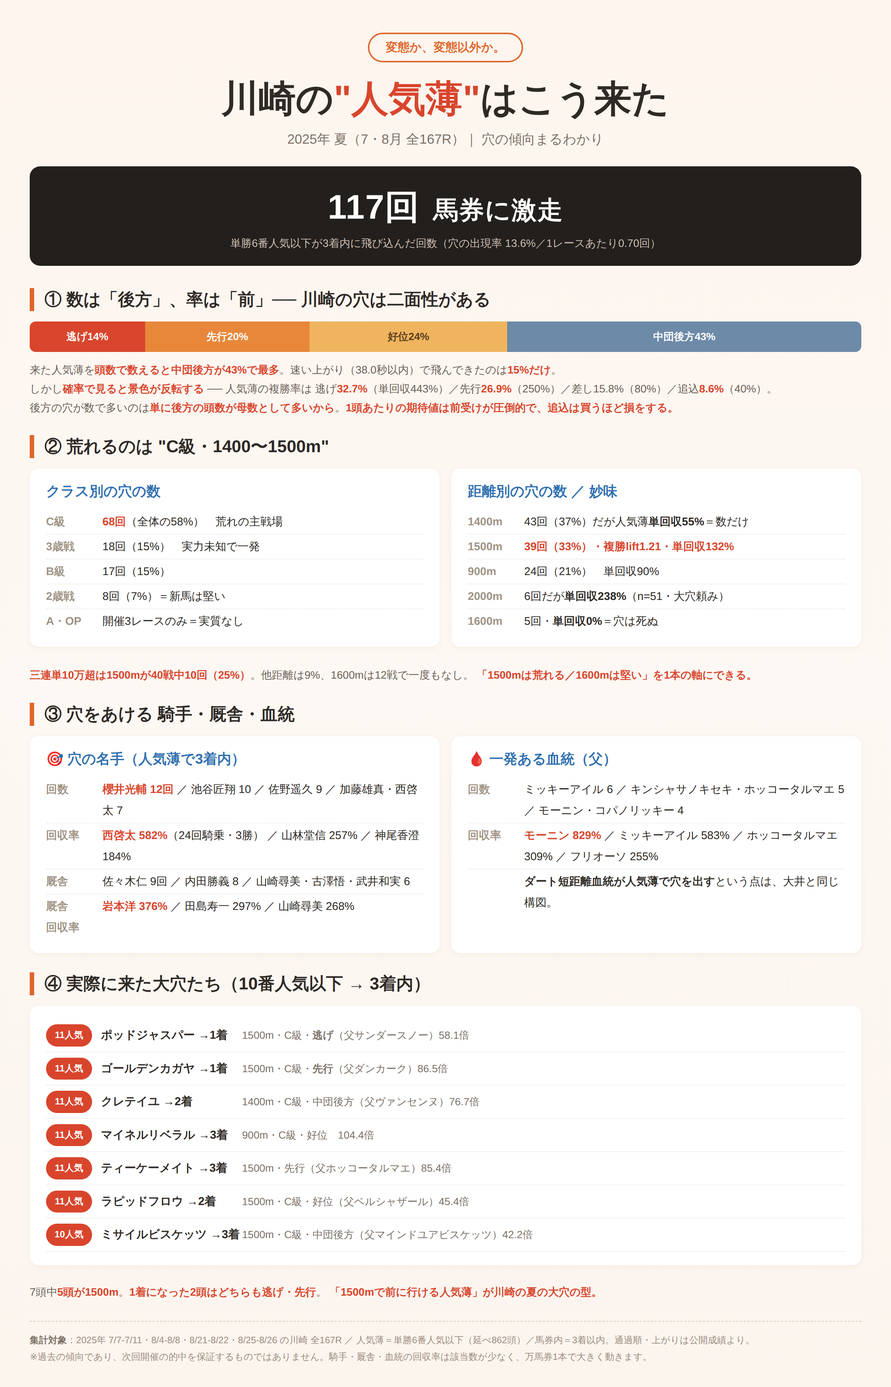
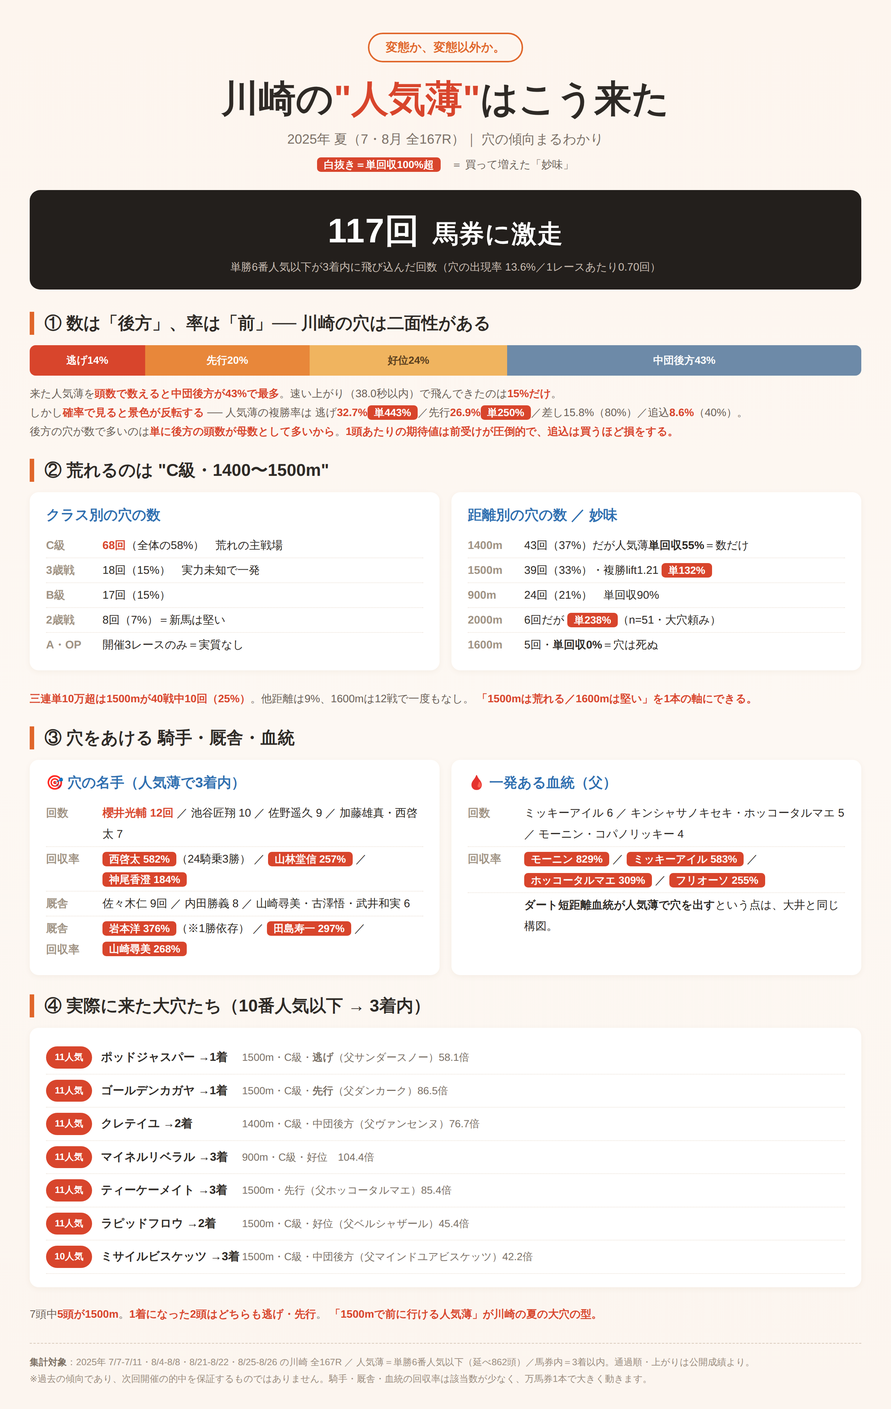
カード改訂：妙味ベスト3（西啓太・田島寿一・岩本洋）を最上段に、白抜き＝単回収100%超で統一

diff --git a/notes/live/kawasaki_2025_summer_data.html b/notes/live/kawasaki_2025_summer_data.html
@@ -4,60 +4,107 @@ body{width:1200px;background:linear-gradient(180deg,#fdf5ee 0%,#fdf8f3 40%,#fbf3
  font-family:"Noto Sans CJK JP","Hiragino Sans","Yu Gothic",sans-serif;color:#2e2a26;padding:44px 40px 26px}
 .pill{display:inline-block;border:2px solid #e0662a;color:#e0662a;border-radius:999px;
  padding:7px 22px;font-size:16px;font-weight:700}
-.head{text-align:center;margin-bottom:26px}
-h1{font-size:52px;font-weight:900;letter-spacing:.01em;margin:16px 0 8px}
+.head{text-align:center;margin-bottom:24px}
+h1{font-size:52px;font-weight:900;margin:16px 0 8px}
 h1 em{font-style:normal;color:#111}
 .sub{font-size:19px;color:#7c7168;margin-bottom:12px}
 .note{display:inline-block;background:#231f1c;color:#fff;border-radius:6px;padding:5px 16px;font-size:14px}
-.top{display:flex;gap:16px;margin-bottom:30px}
-.tcard{flex:1;background:#fff;border-radius:12px;padding:20px 22px 18px;border-top:4px solid #e0662a;
- box-shadow:0 2px 10px rgba(120,80,40,.07)}
-.tlab{font-size:13px;color:#a08e7e;font-weight:700;margin-bottom:6px}
-.tname{font-size:30px;font-weight:900;margin-bottom:8px}
-.tsmall{font-size:14px;color:#8a7d70;margin-bottom:6px}
-.trate{font-size:19px;font-weight:800;color:#1f8a5f;margin-bottom:8px}
-.tdesc{font-size:13.5px;color:#776c60;line-height:1.55}
+.legend{margin-top:12px;font-size:14.5px;color:#6b6158}
+.val{background:#d8452c;color:#fff;border-radius:5px;padding:2px 9px;font-weight:800;
+ font-size:14px;white-space:nowrap}
 h2{font-size:24px;font-weight:900;margin:0 0 16px;padding-left:14px;border-left:6px solid #e0662a}
+h2 small{font-size:15px;color:#8c8177;font-weight:700;margin-left:10px}
+.top{display:flex;gap:16px;margin-bottom:26px}
+.dk{flex:1;background:#231f1c;color:#fff;border-radius:12px;padding:22px 24px 20px;
+ box-shadow:0 4px 14px rgba(60,35,15,.18)}
+.dk .lab{font-size:13px;color:#e0a07a;font-weight:800;margin-bottom:7px;letter-spacing:.04em}
+.dk .nm{font-size:34px;font-weight:900;margin-bottom:10px;letter-spacing:.01em}
+.dk .big{font-size:30px;font-weight:900;color:#ff9264;margin-bottom:4px}
+.dk .sub2{font-size:14px;color:#b8aa9e;margin-bottom:10px}
+.dk .d{font-size:13.5px;color:#e6ded6;line-height:1.7}
+.dk .d b{color:#ffb28c}
+.dk .warn{margin-top:9px;font-size:12.5px;color:#f0c9a6;background:#3a322c;border-radius:6px;padding:7px 10px;line-height:1.6}
+.tetsu{display:flex;gap:16px;margin-bottom:30px}
+.tc{flex:1;background:#fff;border-radius:12px;padding:16px 20px;border-top:4px solid #9aa8b5;
+ box-shadow:0 2px 8px rgba(120,80,40,.06)}
+.tc .lab{font-size:12.5px;color:#a08e7e;font-weight:700;margin-bottom:5px}
+.tc .nm{font-size:23px;font-weight:900;margin-bottom:5px}
+.tc .r{font-size:15px;font-weight:800;color:#1f8a5f;margin-bottom:6px}
+.tc .d{font-size:13px;color:#776c60;line-height:1.6}
 .grid{display:flex;flex-wrap:wrap;gap:16px;margin-bottom:28px}
 .g{width:calc(50% - 8px);background:#fff;border-radius:12px;padding:18px 22px;
  box-shadow:0 2px 8px rgba(120,80,40,.06)}
 .g3{width:calc(33.33% - 11px)}
 .gt{font-size:20px;font-weight:900;color:#2f6fb0;margin-bottom:12px}
 .gt span{font-size:13px;color:#a29387;font-weight:600;margin-left:8px}
-.row{display:flex;font-size:15px;line-height:1.85;border-bottom:1px dotted #ece2d8;padding:2px 0}
+.row{display:flex;font-size:15px;line-height:2.05;border-bottom:1px dotted #ece2d8;padding:3px 0}
 .row:last-child{border:none}
 .rk{width:42px;color:#a09384;font-weight:700;flex:none}
 .rv{flex:1}
-.hot{color:#d8452c;font-weight:800}
+.dim{color:#a2988e}
 .foot{border-top:1px dashed #d9cabb;padding-top:14px;font-size:12.5px;color:#9b8d7f;line-height:1.8}
 .foot b{color:#7b6f63}
 </style>
 <div class="head">
   <div class="pill">変態か、変態以外か。</div>
   <h1>川崎競馬 <em>好走データ 2025年 夏</em></h1>
-  <div class="sub">7・8月 全167レース ｜ 距離 × クラス別 完全版</div>
+  <div class="sub">7・8月 全167レース ｜ 妙味 × 距離 × クラス別</div>
   <div class="note">複勝率＝3着内率／（好走数・出走数）で表記</div>
+  <div class="legend"><span class="val">白抜き＝単回収100%超</span>　＝ 実際に買って増えた「妙味」。黒文字は<b>よく来るが儲からない</b>。</div>
 </div>
 
+<h2>妙味ベスト3 <small>買って一番増えたのは誰か</small></h2>
 <div class="top">
-  <div class="tcard">
-    <div class="tlab">◎ 絶対軸ジョッキー</div>
-    <div class="tname">矢野 貴之</div>
-    <div class="trate">複勝率 59％（40/68）</div>
-    <div class="tdesc">1400mで67%（18/27）。<b>2歳戦は13戦13複＝100%</b>。ただし単回収60%＝買われ過ぎ。</div>
+  <div class="dk">
+    <div class="lab">◎ 妙味の騎手</div>
+    <div class="nm">西 啓太</div>
+    <div class="big">単回収 374%</div>
+    <div class="sub2">40騎乗 5勝／複勝率 30.0%</div>
+    <div class="d">人気薄（6番人気↓）だけで<b>単回収582%</b>（24騎乗3勝）。<br>
+      <b>1500mが本領＝13騎乗2勝・単932%</b>。C級で単511%。<br>
+      11人気58.1倍・8人気63.1倍を勝たせている。</div>
+    <div class="warn">✔ 5勝が複数の馬に分散＝1本頼みではない。勝率12.5%も平均超え。</div>
   </div>
-  <div class="tcard">
-    <div class="tlab">◎ 鉄板トレーナー</div>
-    <div class="tname">加藤 誠一</div>
-    <div class="trate">複勝率 53％（18/34）</div>
-    <div class="tdesc">勝率20.6%も最上位。1400mで70%（7/10）、C級で62%（8/13）。下級条件の主役。</div>
+  <div class="dk">
+    <div class="lab">◎ 妙味の厩舎</div>
+    <div class="nm">田島 寿一</div>
+    <div class="big">単回収 216%</div>
+    <div class="sub2">48出走 4勝／複勝率 25.0%</div>
+    <div class="d">人気薄だけで<b>単回収297%</b>（31出走）。<br>
+      <b>1400mが軸＝23出走・単279%</b>。C級33出走で単197%。<br>
+      8人気33.2倍・6人気58.8倍を勝たせている。</div>
+    <div class="warn">✔ 4勝が別々の馬。1500m（16出走・単39%）は狙わない。</div>
   </div>
-  <div class="tcard">
-    <div class="tlab">◎ 妙味の種牡馬</div>
-    <div class="tname">モズアスコット</div>
-    <div class="tsmall">＝ 芝ダート兼用のフランケル系</div>
-    <div class="trate">複勝率 73％（11/15）</div>
-    <div class="tdesc"><b>2歳戦8戦7複（88%）</b>・1400m 80%（8/10）。逃先率53%＝前に行ける。</div>
+  <div class="dk">
+    <div class="lab">△ 一発の厩舎</div>
+    <div class="nm">岩本 洋</div>
+    <div class="big">単回収 279%</div>
+    <div class="sub2">31出走 <b>1勝</b>／複勝率 19.4%</div>
+    <div class="d">人気薄で単376%。<b>1500m専用＝12出走で単721%</b>、<br>
+      900m・1400m・1600mは<b>すべて単0%</b>。</div>
+    <div class="warn">⚠ 279%の中身は<b>11人気ゴールデンカガヤ86.5倍の1本のみ</b>。<br>この1勝を除くと回収率0%。他2つとは信頼度が違う。</div>
+  </div>
+</div>
+
+<h2>鉄板ベスト3 <small>よく来る。ただし単勝では増えない</small></h2>
+<div class="tetsu">
+  <div class="tc">
+    <div class="lab">◎ 絶対軸ジョッキー</div>
+    <div class="nm">矢野 貴之</div>
+    <div class="r">複勝率 59%（40/68）／単回収 60%</div>
+    <div class="d"><b>2歳戦は13戦13複＝100%</b>（単152%）。複勝・馬連の軸に限定。</div>
+  </div>
+  <div class="tc">
+    <div class="lab">◎ 鉄板トレーナー</div>
+    <div class="nm">加藤 誠一</div>
+    <div class="r">複勝率 53%（18/34）／単回収 93%</div>
+    <div class="d">勝率20.6%も最上位。<b>1400mだけは単216%</b>で妙味も出る。</div>
+  </div>
+  <div class="tc">
+    <div class="lab">◎ 鉄板種牡馬</div>
+    <div class="nm">モズアスコット</div>
+    <div class="r">複勝率 73%（11/15）／単回収 87%</div>
+    <div class="d">2歳戦8戦7複（88%・単144%）。逃先率53%＝前に行ける。</div>
   </div>
 </div>
 
@@ -65,27 +112,27 @@ h2{font-size:24px;font-weight:900;margin:0 0 16px;padding-left:14px;border-left:
 <div class="grid">
   <div class="g">
     <div class="gt">900m <span>スプリント／34R</span></div>
-    <div class="row"><div class="rk">騎手</div><div class="rv"><span class="hot">佐野遥久 63%（17/27）</span> ／ 町田直希 59% ／ 笹川翼 57%</div></div>
-    <div class="row"><div class="rk">厩舎</div><div class="rv"><span class="hot">林隆之 67%（10/15）</span> ／ 久保秀男 55% ／ 高橋宏征 50%</div></div>
-    <div class="row"><div class="rk">父</div><div class="rv">キンシャサノキセキ 60% ／ スマートファルコン 60% ／ リオンディーズ 57%</div></div>
+    <div class="row"><div class="rk">騎手</div><div class="rv">佐野遥久 63%（17/27）<span class="val">単201%</span> ／ 町田直希 59% <span class="dim">単89%</span></div></div>
+    <div class="row"><div class="rk">厩舎</div><div class="rv">林隆之 67%（10/15）<span class="val">単121%</span> ／ 久保秀男 55%<span class="val">単174%</span></div></div>
+    <div class="row"><div class="rk">父</div><div class="rv">スマートファルコン 60%<span class="val">単222%</span> ／ キンシャサノキセキ 60% <span class="dim">単76%</span></div></div>
   </div>
   <div class="g">
     <div class="gt">1400m <span>主戦場／72R</span></div>
-    <div class="row"><div class="rk">騎手</div><div class="rv"><span class="hot">矢野貴之 67%（18/27）</span> ／ 今野忠成 57% ／ 本田正重 54%</div></div>
-    <div class="row"><div class="rk">厩舎</div><div class="rv"><span class="hot">加藤誠一 70%（7/10）</span> ／ 佐々木仁 57%（17/30） ／ 内田勝義 45%</div></div>
-    <div class="row"><div class="rk">父</div><div class="rv"><span class="hot">モズアスコット 80%（8/10）</span> ／ ホッコータルマエ 62%（8/13）</div></div>
+    <div class="row"><div class="rk">騎手</div><div class="rv">矢野貴之 67%（18/27） <span class="dim">単78%</span> ／ 今野忠成 57% <span class="dim">単0%</span></div></div>
+    <div class="row"><div class="rk">厩舎</div><div class="rv">加藤誠一 70%（7/10）<span class="val">単216%</span> ／ 田島寿一 <span class="val">単279%</span>（23出走）</div></div>
+    <div class="row"><div class="rk">父</div><div class="rv">ホッコータルマエ 62%<span class="val">単518%</span> ／ モズアスコット 80%<span class="val">単116%</span></div></div>
   </div>
   <div class="g">
     <div class="gt">1500m <span>荒れ場／40R</span></div>
-    <div class="row"><div class="rk">騎手</div><div class="rv">笹川翼 48%（12/25） ／ 矢野貴之 42% ／ 山崎誠士 38%</div></div>
-    <div class="row"><div class="rk">厩舎</div><div class="rv">秋山直之 50%（6/12） ／ 山崎裕也 43%（12/28） ／ 林隆之 42%</div></div>
-    <div class="row"><div class="rk">父</div><div class="rv">ファインニードル 67%（4/6） ／ <span class="hot">ホッコータルマエ 50%（8/16）</span> ／ パイロ 43%</div></div>
+    <div class="row"><div class="rk">騎手</div><div class="rv">西啓太 <span class="val">単932%</span>（13騎乗2勝） ／ 山崎誠士 38%<span class="val">単342%</span> ／ 矢野貴之 <span class="dim">単7%</span></div></div>
+    <div class="row"><div class="rk">厩舎</div><div class="rv">秋山直之 50%<span class="val">単528%</span> ／ 岩本洋 <span class="val">単721%</span> ／ 山崎裕也 43% <span class="dim">単70%</span></div></div>
+    <div class="row"><div class="rk">父</div><div class="rv">パイロ 43%<span class="val">単105%</span> ／ ファインニードル 67% <span class="dim">単0%</span></div></div>
   </div>
   <div class="g">
     <div class="gt">1600m <span>最も堅い／12R</span></div>
-    <div class="row"><div class="rk">騎手</div><div class="rv"><span class="hot">笹川翼 58%（7/12）</span>　※他は騎乗数不足</div></div>
-    <div class="row"><div class="rk">父</div><div class="rv">マインドユアビスケッツ 60%（3/5） ／ コパノリッキー 40%</div></div>
-    <div class="row"><div class="rk">傾向</div><div class="rv">12レースで<b>三連単10万超ゼロ</b>。堅く獲る条件。</div></div>
+    <div class="row"><div class="rk">騎手</div><div class="rv">笹川翼 58%（7/12） <span class="dim">単0%</span>　※他は騎乗数不足</div></div>
+    <div class="row"><div class="rk">父</div><div class="rv">マインドユアビスケッツ 60% <span class="dim">単60%</span> ／ コパノリッキー <span class="dim">単0%</span></div></div>
+    <div class="row"><div class="rk">要点</div><div class="rv"><b>白抜きがひとつも無い＝妙味ゼロの条件</b>。三連単10万超も12戦で0回。</div></div>
   </div>
 </div>
 
@@ -93,39 +140,41 @@ h2{font-size:24px;font-weight:900;margin:0 0 16px;padding-left:14px;border-left:
 <div class="grid">
   <div class="g g3">
     <div class="gt">2歳戦 <span>30R</span></div>
-    <div class="row"><div class="rk">騎手</div><div class="rv"><span class="hot">矢野貴之 100%（13/13）</span> ／ 笹川翼 65%（11/17）</div></div>
-    <div class="row"><div class="rk">厩舎</div><div class="rv">高月賢一 70%（7/10） ／ 佐々木仁 50%</div></div>
-    <div class="row"><div class="rk">父</div><div class="rv"><span class="hot">モズアスコット 88%（7/8）</span> ／ ホッコータルマエ 80%</div></div>
+    <div class="row"><div class="rk">騎手</div><div class="rv">矢野貴之 100%（13/13）<span class="val">単152%</span> ／ 笹川翼 65% <span class="dim">単68%</span></div></div>
+    <div class="row"><div class="rk">厩舎</div><div class="rv">高月賢一 70%<span class="val">単116%</span> ／ 佐々木仁 50%<span class="val">単113%</span></div></div>
+    <div class="row"><div class="rk">父</div><div class="rv">モズアスコット 88%<span class="val">単144%</span> ／ ホッコータルマエ 80%<span class="val">単170%</span></div></div>
   </div>
   <div class="g g3">
     <div class="gt">3歳戦 <span>29R</span></div>
-    <div class="row"><div class="rk">騎手</div><div class="rv">野畑凌 53%（8/15） ／ 笹川翼 50% ／ 町田直希 47%</div></div>
-    <div class="row"><div class="rk">厩舎</div><div class="rv">安池成実 55%（6/11） ／ 林隆之 54%（7/13）</div></div>
-    <div class="row"><div class="rk">父</div><div class="rv"><span class="hot">パイロ 83%（5/6）</span> ／ モズアスコット 80%</div></div>
+    <div class="row"><div class="rk">騎手</div><div class="rv">野畑凌 53% <span class="dim">単44%</span> ／ 町田直希 47% <span class="dim">単86%</span></div></div>
+    <div class="row"><div class="rk">厩舎</div><div class="rv">林隆之 54% <span class="dim">単85%</span> ／ 安池成実 55% <span class="dim">単0%</span></div></div>
+    <div class="row"><div class="rk">父</div><div class="rv">パイロ 83%（5/6）<span class="val">単140%</span> ／ モズアスコット 80% <span class="dim">単32%</span></div></div>
   </div>
   <div class="g g3">
     <div class="gt">C級 <span>下級古馬／74R</span></div>
-    <div class="row"><div class="rk">騎手</div><div class="rv">張田昂 70%（7/10） ／ 矢野貴之 50%（12/24） ／ 山崎誠士 48%</div></div>
-    <div class="row"><div class="rk">厩舎</div><div class="rv"><span class="hot">加藤誠一 62%（8/13）</span> ／ 秋山直之 53%（9/17）</div></div>
-    <div class="row"><div class="rk">父</div><div class="rv">ビッグアーサー 83%（5/6） ／ アルアイン 80%（4/5）</div></div>
+    <div class="row"><div class="rk">騎手</div><div class="rv">西啓太 <span class="val">単511%</span>（15騎乗） ／ 山崎誠士 48%<span class="val">単197%</span> ／ 張田昂 70%<span class="val">単148%</span></div></div>
+    <div class="row"><div class="rk">厩舎</div><div class="rv">秋山直之 53%<span class="val">単439%</span> ／ 田島寿一 <span class="val">単197%</span>（33出走） ／ 加藤誠一 62% <span class="dim">単34%</span></div></div>
+    <div class="row"><div class="rk">父</div><div class="rv">ビッグアーサー 83% <span class="dim">単57%</span> ／ アルアイン 80% <span class="dim">単90%</span></div></div>
   </div>
   <div class="g g3">
     <div class="gt">B級 <span>中級／23R</span></div>
-    <div class="row"><div class="rk">騎手</div><div class="rv">佐野遥久 62%（10/16） ／ 矢野貴之 60% ／ 新原周馬 60%</div></div>
-    <div class="row"><div class="rk">厩舎</div><div class="rv"><span class="hot">山崎裕也 67%（8/12）</span></div></div>
-    <div class="row"><div class="rk">父</div><div class="rv">キンシャサノキセキ 60% ／ トゥザワールド 50% ／ キズナ 50%</div></div>
+    <div class="row"><div class="rk">騎手</div><div class="rv">新原周馬 60%（6/10）<span class="val">単243%</span> ／ 佐野遥久 62% <span class="dim">単56%</span></div></div>
+    <div class="row"><div class="rk">厩舎</div><div class="rv">山崎裕也 67%（8/12） <span class="dim">単48%</span></div></div>
+    <div class="row"><div class="rk">父</div><div class="rv">キズナ 50%<span class="val">単145%</span> ／ キンシャサノキセキ 60% <span class="dim">単56%</span></div></div>
   </div>
   <div class="g g3">
     <div class="gt">A級・OP <span>上級／3R</span></div>
     <div class="row"><div class="rk">—</div><div class="rv">7・8月の川崎は<b>A級・OPが3レースのみ</b>（延べ24頭）。<br>集計対象外とした。</div></div>
   </div>
   <div class="g g3">
-    <div class="gt">📌 ワンポイント</div>
-    <div class="row"><div class="rk"></div><div class="rv">川崎の夏は<span class="hot">逃げ馬が複勝60.6%・単回収217%</span>。ただし<b>1500mだけ逃げ複勝42.9%まで落ち、三連単10万超が25%</b>（他距離は9%）。距離ごとに別のコースとして扱う。</div></div>
+    <div class="gt">📌 妙味の血統だけ拾うなら</div>
+    <div class="row"><div class="rk">父</div><div class="rv"><span class="val">モーニン 527%</span>（26走）／<span class="val">シニスターミニスター 250%</span>（15走）</div></div>
+    <div class="row"><div class="rk"></div><div class="rv"><span class="val">ホッコータルマエ 213%</span>（36走・複勝47%）／<span class="val">コパノリッキー 149%</span>（50走）</div></div>
+    <div class="row"><div class="rk"></div><div class="rv">いずれも<b>ダート短距離血統</b>。複勝率と回収率が両立するのは<b>ホッコータルマエ</b>。</div></div>
   </div>
 </div>
 
 <div class="foot">
-  <b>集計対象</b>：2025年 7/7-7/11・8/4-8/8・8/21-8/22・8/25-8/26 の川崎 全167R ／ 好走＝3着以内（複勝圏）。数字は（好走数・出走数）と複勝率。<br>
-  ※率のみの数字は出走数が少ない場合あり（カッコ内で確認を）。公開成績を独自集計。次回開催の傾向を保証するものではありません。
+  <b>集計対象</b>：2025年 7/7-7/11・8/4-8/8・8/21-8/22・8/25-8/26 の川崎 全167R ／ 好走＝3着以内（複勝圏）。数字は（好走数・出走数）と複勝率、および単勝回収率。<br>
+  ※<b>白抜き＝単勝を全レース100円ずつ買った場合の回収率が100%超</b>。該当数が少ない項目は万馬券1本で大きく動きます（勝ち数と出走数を必ず確認してください）。公開成績を独自集計。次回開催の傾向を保証するものではありません。
 </div>

diff --git a/notes/live/kawasaki_2025_summer_ana.html b/notes/live/kawasaki_2025_summer_ana.html
@@ -26,6 +26,7 @@ h2{font-size:23px;font-weight:900;margin:0 0 14px;padding-left:14px;border-left:
 .rk{width:76px;color:#a09384;font-weight:700;flex:none}
 .rv{flex:1}
 .hot{color:#d8452c;font-weight:800}
+.val{background:#d8452c;color:#fff;border-radius:5px;padding:2px 9px;font-weight:800;font-size:14px;white-space:nowrap}
 .txt{font-size:14.5px;color:#6b6158;line-height:1.75;margin-bottom:24px}
 .txt b{color:#d8452c}
 .hlist .row{border-bottom:1px dotted #ece2d8;padding:7px 0;align-items:center}
@@ -40,6 +41,7 @@ h2{font-size:23px;font-weight:900;margin:0 0 14px;padding-left:14px;border-left:
   <div class="pill">変態か、変態以外か。</div>
   <h1>川崎の<em>"人気薄"</em>はこう来た</h1>
   <div class="sub">2025年 夏（7・8月 全167R）｜ 穴の傾向まるわかり</div>
+  <div style="margin-top:12px;font-size:14.5px;color:#6b6158"><span class="val">白抜き＝単回収100%超</span>　＝ 買って増えた「妙味」</div>
 </div>
 
 <div class="hero">
@@ -51,7 +53,7 @@ h2{font-size:23px;font-weight:900;margin:0 0 14px;padding-left:14px;border-left:
 <div class="bar"><div class="b1">逃げ14%</div><div class="b2">先行20%</div><div class="b3">好位24%</div><div class="b4">中団後方43%</div></div>
 <div class="txt">
 来た人気薄を<b>頭数で数えると中団後方が43%で最多</b>。速い上がり（38.0秒以内）で飛んできたのは<b>15%だけ</b>。<br>
-しかし<b>確率で見ると景色が反転する</b> ── 人気薄の複勝率は 逃げ<b>32.7%</b>（単回収443%）／先行<b>26.9%</b>（250%）／差し15.8%（80%）／追込<b>8.6%</b>（40%）。<br>
+しかし<b>確率で見ると景色が反転する</b> ── 人気薄の複勝率は 逃げ<b>32.7%</b><span class="val">単443%</span>／先行<b>26.9%</b><span class="val">単250%</span>／差し15.8%（80%）／追込<b>8.6%</b>（40%）。<br>
 後方の穴が数で多いのは<b>単に後方の頭数が母数として多いから</b>。<span class="hot">1頭あたりの期待値は前受けが圧倒的で、追込は買うほど損をする。</span>
 </div>
 
@@ -68,9 +70,9 @@ h2{font-size:23px;font-weight:900;margin:0 0 14px;padding-left:14px;border-left:
   <div class="card">
     <div class="gt">距離別の穴の数 ／ 妙味</div>
     <div class="row"><div class="rk">1400m</div><div class="rv">43回（37%）だが人気薄<b>単回収55%</b>＝数だけ</div></div>
-    <div class="row"><div class="rk">1500m</div><div class="rv"><span class="hot">39回（33%）・複勝lift1.21・単回収132%</span></div></div>
+    <div class="row"><div class="rk">1500m</div><div class="rv">39回（33%）・複勝lift1.21 <span class="val">単132%</span></div></div>
     <div class="row"><div class="rk">900m</div><div class="rv">24回（21%）　単回収90%</div></div>
-    <div class="row"><div class="rk">2000m</div><div class="rv">6回だが<b>単回収238%</b>（n=51・大穴頼み）</div></div>
+    <div class="row"><div class="rk">2000m</div><div class="rv">6回だが <span class="val">単238%</span>（n=51・大穴頼み）</div></div>
     <div class="row"><div class="rk">1600m</div><div class="rv">5回・<b>単回収0%</b>＝穴は死ぬ</div></div>
   </div>
 </div>
@@ -84,14 +86,14 @@ h2{font-size:23px;font-weight:900;margin:0 0 14px;padding-left:14px;border-left:
   <div class="card">
     <div class="gt">🎯 穴の名手（人気薄で3着内）</div>
     <div class="row"><div class="rk">回数</div><div class="rv"><span class="hot">櫻井光輔 12回</span> ／ 池谷匠翔 10 ／ 佐野遥久 9 ／ 加藤雄真・西啓太 7</div></div>
-    <div class="row"><div class="rk">回収率</div><div class="rv"><span class="hot">西啓太 582%</span>（24回騎乗・3勝） ／ 山林堂信 257% ／ 神尾香澄 184%</div></div>
+    <div class="row"><div class="rk">回収率</div><div class="rv"><span class="val">西啓太 582%</span>（24騎乗3勝） ／ <span class="val">山林堂信 257%</span> ／ <span class="val">神尾香澄 184%</span></div></div>
     <div class="row"><div class="rk">厩舎</div><div class="rv">佐々木仁 9回 ／ 内田勝義 8 ／ 山崎尋美・古澤悟・武井和実 6</div></div>
-    <div class="row"><div class="rk">厩舎<br>回収率</div><div class="rv"><span class="hot">岩本洋 376%</span> ／ 田島寿一 297% ／ 山崎尋美 268%</div></div>
+    <div class="row"><div class="rk">厩舎<br>回収率</div><div class="rv"><span class="val">岩本洋 376%</span>（※1勝依存） ／ <span class="val">田島寿一 297%</span> ／ <span class="val">山崎尋美 268%</span></div></div>
   </div>
   <div class="card">
     <div class="gt">🩸 一発ある血統（父）</div>
     <div class="row"><div class="rk">回数</div><div class="rv">ミッキーアイル 6 ／ キンシャサノキセキ・ホッコータルマエ 5 ／ モーニン・コパノリッキー 4</div></div>
-    <div class="row"><div class="rk">回収率</div><div class="rv"><span class="hot">モーニン 829%</span> ／ ミッキーアイル 583% ／ ホッコータルマエ 309% ／ フリオーソ 255%</div></div>
+    <div class="row"><div class="rk">回収率</div><div class="rv"><span class="val">モーニン 829%</span> ／ <span class="val">ミッキーアイル 583%</span> ／ <span class="val">ホッコータルマエ 309%</span> ／ <span class="val">フリオーソ 255%</span></div></div>
     <div class="row"><div class="rk"></div><div class="rv"><b>ダート短距離血統が人気薄で穴を出す</b>という点は、大井と同じ構図。</div></div>
   </div>
 </div>
